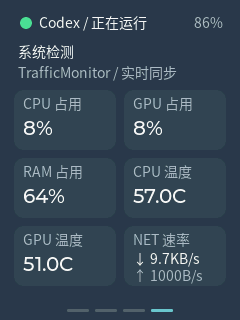
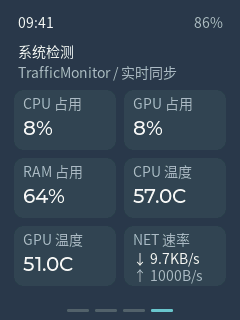
Show synchronized clock on the v16 system monitor page

Changed region(s): [[0.0583, 0.0312, 0.6125, 0.0938]]

diff --git a/firmware/companion/postcard/index.html b/firmware/companion/postcard/index.html
@@ -4,7 +4,7 @@
   <meta charset="UTF-8"><meta name="viewport" content="width=device-width, initial-scale=1">
   <meta name="description" content="AI Passport 明信片与设备管理">
   <title>Tokens Kanban · 设备管理</title>
-  <link rel="icon" href="default-avatar.png"><link rel="stylesheet" href="style.css">
+  <link rel="icon" href="default-avatar.png"><link rel="stylesheet" href="style.css?v=16">
 </head>
 <body>
 <header class="topbar">
@@ -35,7 +35,7 @@
   </section>
   <section class="edit-panel"><div class="section-row"><h2>自定义文本</h2><button id="monResetText" type="button" class="secondary">恢复默认文本</button></div><div class="monitor-display-grid"><div class="field"><label for="monUpLabel">上传标签 · 最多 2 字</label><input id="monUpLabel" maxlength="2" value="↑"></div><div class="field"><label for="monDownLabel">下载标签 · 最多 2 字</label><input id="monDownLabel" maxlength="2" value="↓"></div></div><p class="setting-help">标题最多 6 字；支持常用中文、英文和箭头。无法显示的文字会明确提示并阻止保存。</p><p id="monTextError" class="text-error" role="alert" hidden></p></section>
  </fieldset></form>
- <section class="edit-panel monitor-downloads"><h2>TrafficMonitor 桥接插件</h2><p>适配 TrafficMonitor 1.86 x64 · Tokens Kanban v15</p><div class="download-links"><a href="https://github.com/GreentailTohru-arch/Tokens-Kanban/releases/download/v15/TokensKanbanBridge.dll" download>下载桥接插件</a><a href="https://github.com/GreentailTohru-arch/Tokens-Kanban/releases/download/v15/Tokens-Kanban-v15-Windows.zip" download>下载电脑同步程序</a><a href="https://github.com/GreentailTohru-arch/Tokens-Kanban/releases/download/v15/Tokens-Kanban-v15-installation.txt" download>安装说明</a></div><ol><li>下载插件，放入 TrafficMonitor 安装目录的 plugins 文件夹。</li><li>退出并重启 TrafficMonitor，运行同版本电脑同步程序。</li><li>通过 USB 或蓝牙连接 AI Passport。</li></ol><p class="setting-help">插件安装在电脑端，网页不能直接安装。只读取已有数据，不修改 TrafficMonitor 的设置或网卡选择。今日总流量是主程序的今日记录，不是累计流量。</p></section>
+ <section class="edit-panel monitor-downloads"><h2>TrafficMonitor 桥接插件</h2><p>适配 TrafficMonitor 1.86 x64 · Tokens Kanban v16</p><div class="download-links"><a href="https://github.com/GreentailTohru-arch/Tokens-Kanban/releases/download/v16/TokensKanbanBridge.dll" download>下载桥接插件</a><a href="https://github.com/GreentailTohru-arch/Tokens-Kanban/releases/download/v16/Tokens-Kanban-v16-Windows.zip" download>下载电脑同步程序</a><a href="https://github.com/GreentailTohru-arch/Tokens-Kanban/releases/download/v16/Tokens-Kanban-v16-installation.txt" download>安装说明</a></div><ol><li>下载插件，放入 TrafficMonitor 安装目录的 plugins 文件夹。</li><li>退出并重启 TrafficMonitor，运行同版本电脑同步程序。</li><li>通过 USB 或蓝牙连接 AI Passport。</li></ol><p class="setting-help">插件安装在电脑端，网页不能直接安装。只读取已有数据，不修改 TrafficMonitor 的设置或网卡选择。今日总流量是主程序的今日记录，不是累计流量。</p></section>
  </div>
 </section>
 <main id="postcardPage" class="workspace" hidden>
@@ -77,5 +77,5 @@
   <div class="crop-controls"><label for="zoom">缩放</label><output id="zoomValue" for="zoom">1.00×</output><input id="zoom" type="range" min="1" max="4" step="0.01" value="1"></div>
   <div class="crop-actions"><button id="resetCrop" type="button" class="secondary">重置</button><button id="applyCrop" type="button">确定取景</button></div>
 </dialog>
-<script type="module" src="editor.js"></script>
+<script type="module" src="editor.js?v=16"></script>
 </body></html>

diff --git a/firmware/companion/postcard/monitor.js b/firmware/companion/postcard/monitor.js
@@ -62,8 +62,8 @@ export class MonitorEditor {
     });this.draw();
   }
   draw(){
-    const c=$('monitorPreview'),x=c.getContext('2d'),cfg=this.config;x.fillStyle='#2f3a49';x.fillRect(0,0,240,320);x.fillStyle='#5ba7ff';x.beginPath();x.arc(26,23,6,0,7);x.fill();
-    const font=(size=14)=>`${size}px "Microsoft YaHei UI",sans-serif`;x.font=font();x.textBaseline='top';x.fillStyle='#f1f7f4';x.fillText('Codex / 待命',39,14);x.fillStyle='#adb8c3';x.fillText('86%',195,14);x.fillStyle='#f1f7f4';x.fillText('系统检测',18,43);x.fillStyle='#adb8c3';x.fillText('TrafficMonitor / 示例数据',18,64);
+    const c=$('monitorPreview'),x=c.getContext('2d'),cfg=this.config;x.fillStyle='#2f3a49';x.fillRect(0,0,240,320);
+    const font=(size=14)=>`${size}px "Microsoft YaHei UI",sans-serif`;x.font=font();x.textBaseline='top';x.fillStyle='#f1f7f4';x.fillText('00:00',18,14);x.fillStyle='#adb8c3';x.fillText('86%',195,14);x.fillStyle='#f1f7f4';x.fillText('系统检测',18,43);x.fillStyle='#adb8c3';x.fillText('TrafficMonitor / 示例数据',18,64);
     const cards=cfg.cards.filter(c=>c.enabled);if(!cards.length){x.textAlign='center';x.fillText('暂无检测卡片',120,156);x.textAlign='left';}
     cards.forEach((card,i)=>{const p=layout(cards.length,i);x.fillStyle='#374453';x.beginPath();x.roundRect(p.x,p.y,p.w,p.h,9);x.fill();x.font=font();x.fillStyle='#adb8c3';x.fillText(card.title||names[card.metric],p.x+9,p.y+5);let lines=values(cfg,card.metric),size=card.metric===11?14:20;x.font=font(size);if(lines.some(t=>x.measureText(t).width>p.w-18)){size=14;x.font=font();}if(lines.some(t=>x.measureText(t).width>p.w-18)){lines=values({...cfg,compact:1,decimals:0},card.metric);size=14;x.font=font();}let spacing=0;while(spacing>-3&&lines.some(t=>x.measureText(t).width>p.w-18)){spacing--;x.letterSpacing=spacing+'px';}x.fillStyle='#f1f7f4';const y=card.metric===11?(p.h>70?(p.h-40)/2:24):(p.h>70?(p.h-24)/2:27);x.fillText(lines[0],p.x+9,p.y+y);if(lines[1]){x.fillStyle='#adb8c3';x.fillText(lines[1],p.x+9,p.y+(p.h>70?(p.h-40)/2+22:41));}x.letterSpacing='0px';});
     x.fillStyle='#52616e';for(let i=0;i<4;i++){x.beginPath();x.roundRect(67+i*28,309,22,3,2);x.fill();}x.fillStyle='#68c4cb';x.fillRect(123,309,22,3);this.onRender?.(this.previewURL());

diff --git a/firmware/main/token_ui.c b/firmware/main/token_ui.c
@@ -19,7 +19,7 @@ static lv_obj_t *home_group, *stats_group, *page_marks[PAGE_COUNT], *card_group,
 static lv_image_dsc_t card_faces[2];
 static const uint8_t *card_data;
 static bool card_contact;
-static lv_obj_t *system_group,*system_status,*system_values[6],*system_second[6],*system_titles[6],*system_panels[6],*system_empty;
+static lv_obj_t *system_group,*system_clock,*system_status,*system_values[6],*system_second[6],*system_titles[6],*system_panels[6],*system_empty;
 static lv_obj_t *model_names[2], *model_totals[2], *model_shares[2], *stats_period;
 static lv_obj_t *active_days, *heat_months[3], *trend_dates[3], *peak_label, *heat_obj, *trend_obj;
 static uint8_t heat_data[TOKEN_HEAT_DAYS];
@@ -150,6 +150,7 @@ void token_ui_create(void) {
     card_image=lv_image_create(card_group);lv_obj_set_pos(card_image,0,38);
     visible(card_group,false);visible(card_image,false);
     system_group=group(screen);
+    system_clock=label(system_group,18,14,46,"00:00",INK);
     label(system_group,18,43,140,"系统检测",INK);
     system_status=label(system_group,18,64,204,"等待电脑同步",MUTED);
     system_empty=label(system_group,18,156,204,"暂无检测卡片",MUTED);lv_obj_set_style_text_align(system_empty,LV_TEXT_ALIGN_CENTER,0);
@@ -184,7 +185,7 @@ void token_ui_postcard_image(const uint8_t *data) {
 }
 void token_ui_postcard_clock(uint64_t seconds,bool dated,bool contact) {
     char text[48];snprintf(text,sizeof(text),"%02u:%02u",(unsigned)(seconds/3600%24),(unsigned)(seconds/60%60));
-    lv_label_set_text(clock_label,text);
+    lv_label_set_text(clock_label,text);lv_label_set_text(system_clock,text);
     unsigned month,day,weekday;
     static const char *weekdays[]={"日","一","二","三","四","五","六"};
     if(dated && postcard_calendar(seconds,&month,&day,&weekday))
@@ -205,7 +206,7 @@ void token_ui_update(const token_snapshot_t *s,unsigned period,bool show_cost,bo
     if(period>2) period=0;
     if(page>=PAGE_COUNT) page=0;
     visible(home_group,page==0);visible(stats_group,page==1);visible(card_group,page==PAGE_POSTCARD);visible(system_group,page==PAGE_SYSTEM);
-    visible(signal_light,page!=PAGE_POSTCARD);visible(signal_label,page!=PAGE_POSTCARD);visible(battery_label,page!=PAGE_POSTCARD);
+    visible(signal_light,page!=PAGE_POSTCARD && page!=PAGE_SYSTEM);visible(signal_label,page!=PAGE_POSTCARD && page!=PAGE_SYSTEM);visible(battery_label,page!=PAGE_POSTCARD);
     visible(quota_panel,!show_cost);visible(detail_panel,show_cost);
     for(unsigned i=0;i<3;++i) {
         lv_obj_set_style_bg_color(tabs[i],lv_color_hex(i==period?0x516471:PANEL),0);

diff --git a/firmware/tests/ui_preview/preview.c b/firmware/tests/ui_preview/preview.c
@@ -39,6 +39,12 @@ static void check_labels(lv_obj_t *obj) {
     }
     for(uint32_t i=0;i<lv_obj_get_child_count(obj);++i) check_labels(lv_obj_get_child(obj,i));
 }
+static unsigned count_visible_text(lv_obj_t *obj,const char *text) {
+    if(lv_obj_has_flag(obj,LV_OBJ_FLAG_HIDDEN))return 0;
+    unsigned n=lv_obj_check_type(obj,&lv_label_class)&&!strcmp(lv_label_get_text(obj),text);
+    for(uint32_t i=0;i<lv_obj_get_child_count(obj);++i)n+=count_visible_text(lv_obj_get_child(obj,i),text);
+    return n;
+}
 int main(void) {
     lv_init();lv_display_t *display=lv_display_create(240,320);
     lv_display_set_color_format(display,LV_COLOR_FORMAT_RGB565);
@@ -124,7 +130,12 @@ int main(void) {
         token_ui_system(&metrics,true,&monitor);lv_refr_now(NULL);check_labels(lv_screen_active());
     }
     monitor=monitor_default();metrics=(system_snapshot_t){.v={1,8,8,64,570,510,9910,1000,3380,12,1073741824,2147483648}};
-    token_ui_system(&metrics,true,&monitor);save("system-configurable.ppm");
+    token_ui_system(&metrics,true,&monitor);
+    token_ui_postcard_clock(0,false,false);assert(count_visible_text(lv_screen_active(),"00:00")==1);
+    token_ui_postcard_clock(86399,false,false);assert(count_visible_text(lv_screen_active(),"23:59")==1);
+    token_ui_postcard_clock(86400,false,false);assert(count_visible_text(lv_screen_active(),"00:00")==1);
+    token_ui_postcard_clock(9*3600+41*60,false,false);assert(count_visible_text(lv_screen_active(),"09:41")==1);
+    save("system-configurable.ppm");
     for(unsigned page=0;page<PAGE_COUNT;++page) {
         token_ui_pages(&pages,page);token_ui_update(&s,0,false,true,0,86,page);
         lv_refr_now(NULL);unsigned char underlay[sizeof(framebuffer)];memcpy(underlay,framebuffer,sizeof(underlay));

diff --git a/firmware/tests/test_postcard_browser.py b/firmware/tests/test_postcard_browser.py
@@ -216,7 +216,7 @@ def main():
         expect(page.locator('#monBits')).to_have_value('1');expect(page.locator('#monUpLabel')).to_have_value('上传')
         assert page.get_by_role('textbox',name='第1张卡片标题',exact=True).input_value()=='中央处理频率'
         assert page.locator('#monitorPage .download-links a').count()==3
-        assert all('/download/v15/' in h for h in page.locator('#monitorPage .download-links a').evaluate_all('(a)=>a.map(e=>e.href)'))
+        assert all('/download/v16/' in h for h in page.locator('#monitorPage .download-links a').evaluate_all('(a)=>a.map(e=>e.href)'))
         assert page.locator('#settingsPage .download-links').count()==0
         page.locator('#settingsNav').click();expect(page.locator('#idleTime')).to_be_enabled()
         expect(page.locator('#settingsState')).to_have_text('已读取设备设置')

diff --git a/firmware/companion/postcard_server.py b/firmware/companion/postcard_server.py
@@ -2,6 +2,7 @@
 from http.server import BaseHTTPRequestHandler, ThreadingHTTPServer
 from pathlib import Path
 import webbrowser
+from urllib.parse import urlsplit
 
 ASSETS = {'/monitor.js':('monitor.js','text/javascript; charset=utf-8'),'/font-coverage.json':('font-coverage.json','application/json; charset=utf-8'),**{f'/page-{i}.png':(f'page-{i}.png','image/png') for i in range(4)},'/': ('index.html', 'text/html; charset=utf-8'),
           '/editor.js': ('editor.js', 'text/javascript; charset=utf-8'),
@@ -13,7 +14,7 @@ ASSETS = {'/monitor.js':('monitor.js','text/javascript; charset=utf-8'),'/font-c
 
 class Handler(BaseHTTPRequestHandler):
     def do_GET(self):
-        entry = ASSETS.get(self.path)
+        entry = ASSETS.get(urlsplit(self.path).path)
         if not entry:
             self.send_error(404)
             return

diff --git a/firmware/companion/codex_tokens.py b/firmware/companion/codex_tokens.py
@@ -398,7 +398,7 @@ def main():
         return
     monitor=SystemPoller()
     index=UsageIndex(args.codex_home); quota=QuotaPoller(); connection=None; sequence=0; events=CompletionTracker(); can_notify=False; can_monitor=False
-    print('Codex Token Display v15 | USB + Bluetooth LE\nTokens / estimated API USD / models / activity / trends / PC system monitor. Ctrl+C to exit.',flush=True)
+    print('Codex Token Display v16 | USB + Bluetooth LE\nTokens / estimated API USD / models / activity / trends / PC system monitor. Ctrl+C to exit.',flush=True)
     try:
         if args.dry_run:
             index.refresh(); quota.ready.wait(30)

diff --git a/firmware/companion/trafficmonitor/README.md b/firmware/companion/trafficmonitor/README.md
@@ -1,6 +1,6 @@
 [简体中文](README.zh_CN.md)
 
-# TrafficMonitor bridge for Tokens Kanban v15
+# TrafficMonitor bridge for Tokens Kanban (component v15)
 
 The x64 bridge reuses **TrafficMonitor 1.86** data without polling sensors or
 network adapters. It adds no display item, edits no TrafficMonitor configuration,
@@ -14,8 +14,8 @@ unsupported until their independent sensor-plugin interfaces are verified.
    adapter. Copy `TokensKanbanBridge.dll` into its `plugins` subdirectory.
 2. Exit and reopen TrafficMonitor once to load the DLL. Ask the owner first when
    restarting a running copy. Preserve its existing elevation level and settings.
-3. Run the v15 `CodexTokenDisplay.exe`; USB is preferred automatically, or use
-   `--transport ble`. Only one v15 sync process may listen to the bridge at a time.
+3. Run the matching `CodexTokenDisplay.exe` (v15 or later); USB is preferred automatically, or use
+   `--transport ble`. Only one sync process may listen to the bridge at a time.
 4. On the Passport, double OK through the enabled pages to System Monitor.
    Up/Down and single OK keep their existing behavior on the other pages. The
    browser's first sidebar entry manages all four pages with previews, switches,
@@ -25,7 +25,7 @@ unsupported until their independent sensor-plugin interfaces are verified.
 connecting to the device or reading Codex logs. It includes the eleven raw metrics,
 TrafficMonitor's formatted taskbar strings and a eleven-bit callback/getter
 agreement mask (`2047` means all agree within the host's whole-degree precision).
-It cannot run concurrently with another v15 receiver. The normal sync process
+It cannot run concurrently with another bridge receiver. The normal sync process
 handles token/quota data independently if TrafficMonitor is absent.
 
 Unknown metrics use `-1`, displayed as `--`; zero load and zero traffic remain
@@ -100,3 +100,6 @@ Eleven readings matched host getters and formatted strings. Receiver reconnect,
 real cached-data expiry and a retired source PID were checked. Missing sensors and
 unsupported versions used an isolated actual-DLL mock host. v15 has not been flashed
 to the Passport; host tests do not imply physical device acceptance.
+
+The v16 release retains this verified v15 bridge DLL byte for byte; only the
+System Monitor clock, web preview and companion package version changed.

diff --git a/firmware/docs/codex-token-display.md b/firmware/docs/codex-token-display.md
@@ -794,3 +794,10 @@ The v14 minimal quick-volume bar and pending 88x109 startup logo are retained.
 Merged 0x0 flashing may reset NVS; preserving data needs a partition-checked
 application-only upgrade without full-chip erase. v15 is not yet flashed or accepted
 on hardware. Build, native rendering and browser simulation are separate results.
+
+## v16 System Monitor clock
+
+System Monitor uses the shared computer-synchronized local HH:MM clock at the top
+left, replacing the Codex signal light/text on that page only. Before time sync it
+shows 00:00; top-right battery and the other pages are unchanged. The v15 bridge
+component is byte-identical and requires no host restart for this UI update.

diff --git a/firmware/docs/codex-token-display.zh_CN.md b/firmware/docs/codex-token-display.zh_CN.md
@@ -600,3 +600,9 @@ PC_MON_READ 分块读取，PC_MON_SET 经异步工作任务保存并读回。原
 
 从 0x0 刷写合并镜像可能重置 NVS；保留数据升级需核对分区后只更新匹配应用，
 不执行全片擦除。v15 尚未刷写，构建、原生渲染和浏览器模拟分别记录，不代表实机验收。
+
+## v16 系统检测页时钟
+
+系统检测左上角改为电脑同步的本地 HH:MM 时间，未同步显示 00:00，替换本页 Codex
+状态灯和文字。右上角电量和其他页面保持原样。桥接组件与 v15 字节一致，本次界面
+更新不需要重启 TrafficMonitor。新版本仍待授权刷机，实机验收单独记录。
